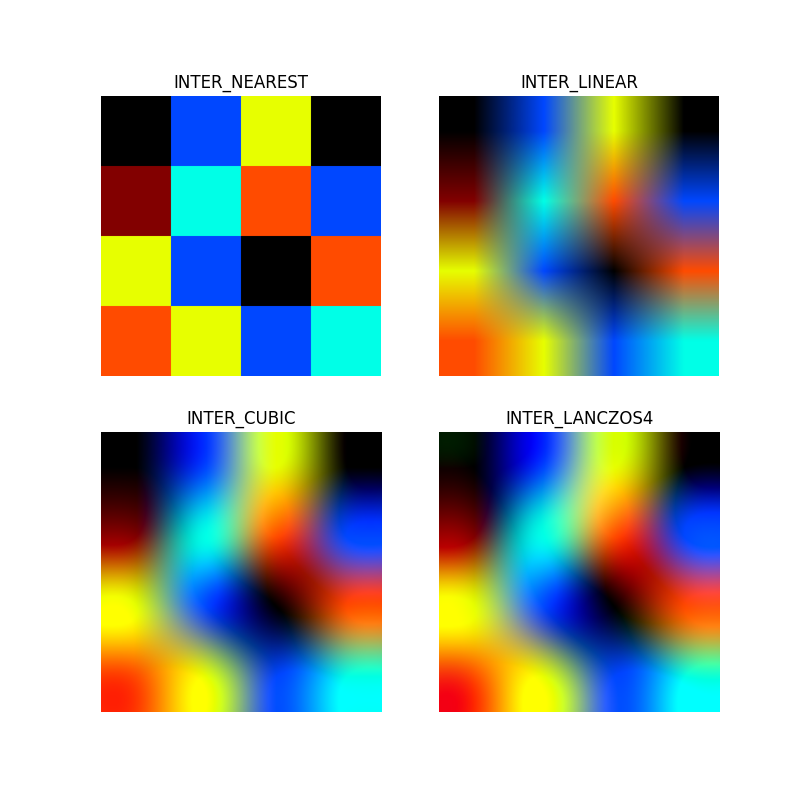
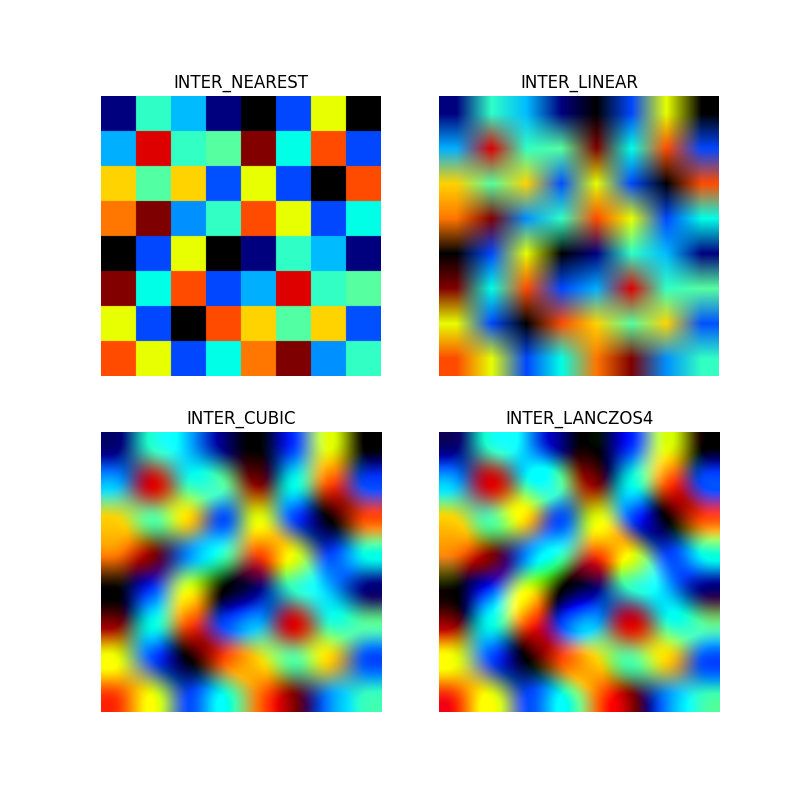
def imgshow4_3d(imga, titlea, imgb, titleb, imgc, titlec, imgd, titled):

diff --git a/reindent.py b/reindent.py
@@ -1,5 +1,6 @@
 #encoding=utf8
 import re, os, sys
+sys.path.append("../")
 try:
     from .funclib import * # 被间接使用
 except ImportError as ex: # attempted relative import with no known parent package
@@ -63,12 +64,10 @@ makebackup = True
 # A specified newline to be used in the output (set by --newline option)
 spec_newline = None
 
-
 def usage(msg=None):
     if msg is None:
         msg = __doc__
     print(msg, file=sys.stderr)
-
 
 def errprint(*args):
     sys.stderr.write(" ".join(str(arg) for arg in args))
@@ -107,7 +106,6 @@ def main():
         return
     for arg in args:
         check(arg)
-
 
 def check(file):
     if os.path.isdir(file) and not os.path.islink(file):
@@ -165,7 +163,6 @@ def check(file):
             print("unchanged.")
         return False
 
-
 def _rstrip(line, JUNK='\n \t'):
     """Return line stripped of trailing spaces, tabs, newlines.
 
@@ -178,7 +175,6 @@ def _rstrip(line, JUNK='\n \t'):
     while i > 0 and line[i - 1] in JUNK:
         i -= 1
     return line[:i]
-
 
 class Reindenter:
 
@@ -329,14 +325,12 @@ class Reindenter:
             if line:   # not endmarker
                 self.stats.append((slinecol[0], self.level))
 
-
 # Count number of leading blanks.
 def getlspace(line):
     i, n = 0, len(line)
     while i < n and line[i] == " ":
         i += 1
     return i
-
 
 if __name__ == '__main__':
     main()

diff --git a/mdrstrip.py b/mdrstrip.py
@@ -140,6 +140,7 @@ def mainfile(fpath, fname, ftype):
     warnCnEnSpace    = ftype in ("md", "php", "html", "htm",)
     warnMdTitleSpace = ftype in ("md",)
     warnIndentSpace  = ftype in ("md", "py", "php",)
+    isPyFile = ftype in ("py",)
 
     if fpath.find("\\_site\\") != -1:
         return
@@ -180,7 +181,8 @@ def mainfile(fpath, fname, ftype):
         tagregexk = "^\\s*[#]+\\s{2,}"
         prelinetag = re.findall(tagregex, preline)
         nextlinetag = re.findall(tagregex, nextline)
-        assert not re.findall(tagregexk, preline), preline
+        if not isPyFile:
+            assert not re.findall(tagregexk, preline), preline
 
         if re.findall("^\\s*[*-]+ ", line):
             idtcnt = 2
@@ -281,9 +283,9 @@ def mainfile(fpath, fname, ftype):
 
         if count > 12 or count % idtcnt == 0:
             pass # ok
-        elif warnIndentSpace:
+        elif warnIndentSpace and not isPyFile:
             openTextFile(fpath)
-            assert False, "{}:{} {}".format(fpath, index+1, line)
+            assert False, "{}:{} \"{}\"".format(fpath, index+1, line)
 
     page = "\r\n".join(lines)
     while page.find("\r\n" * 3) != -1:

diff --git a/_posts/2020-10-20-dip-image-interpolation.md b/_posts/2020-10-20-dip-image-interpolation.md
@@ -11,7 +11,7 @@ toc: true
 写了一个 Python 直观感受各种图像缩放插值算法。越高级的算法越圆润，越基础的算法马赛克效果越明显。
 
 * INTER_NEAREST  -- 最近邻插值法 "nearest"
-* INTER_LINEAR   -- 双线性插值法（默认）"linear", "bilinear", "trilinear", "triangle"
+* INTER_LINEAR   -- 双线性插值法（默认）“linear", "bilinear", "trilinear", "triangle"
 * INTER_AREA     -- 基于局部像素的重采样（resampling using pixel area relation）
 * INTER_CUBIC    -- 基于 4x4 像素邻域的 3 次插值法 "cubic", "bicubic", "tricubic"
 * INTER_LANCZOS4 -- 基于 8x8 像素邻域的 Lanczos 插值 "lanczos4"
@@ -22,6 +22,14 @@ toc: true
 {% include image.html url="/images/image-interpolation/result.png" %}
 
 {% include image.html url="/images/image-interpolation/result2.png" %}
+
+{% include image.html url="/images/image-interpolation/INTER_NEAREST.png" %}
+
+{% include image.html url="/images/image-interpolation/INTER_LINEAR.png" %}
+
+{% include image.html url="/images/image-interpolation/INTER_CUBIC.png" %}
+
+{% include image.html url="/images/image-interpolation/INTER_LANCZOS4.png" %}
 
 
 ## Python 代码
@@ -67,8 +75,44 @@ def imgshow4(imga, titlea, imgb, titleb, imgc, titlec, imgd, titled):
     plt.axis('off')
     plt.show()
 
-def imgtest(myimg, interpolation):
-    img = cv2.resize(myimg, (0, 0), fx=100, fy=100,
+# https://www.oreilly.com/library/view/python-data-science/9781491912126/ch04.html
+def imgshow4_3d(imga, titlea, imgb, titleb, imgc, titlec, imgd, titled):
+    plt.figure(num='result3d', figsize=(8,8))
+    xx, yy = np.mgrid[0:imga.shape[0], 0:imga.shape[1]]
+
+    cfg = plt.subplot(2, 2, 1, projection='3d')
+    cfg.set_title(titlea)
+    cfg.plot_surface(xx, yy, imga, rstride=1, cstride=1, cmap=plt.cm.jet, linewidth=0, antialiased=False)
+    plt.axis('off')
+
+    cfg = plt.subplot(2, 2, 2, projection='3d')
+    cfg.set_title(titleb)
+    cfg.plot_surface(xx, yy, imgb, rstride=1, cstride=1, cmap=plt.cm.jet, linewidth=0, antialiased=False)
+    plt.axis('off')
+
+    cfg = plt.subplot(2, 2, 3, projection='3d')
+    cfg.set_title(titlec)
+    cfg.plot_surface(xx, yy, imgc, rstride=1, cstride=1, cmap=plt.cm.jet, linewidth=0, antialiased=False)
+    plt.axis('off')
+
+    cfg = plt.subplot(2, 2, 4, projection='3d')
+    cfg.set_title(titled)
+    cfg.plot_surface(xx, yy, imgd, rstride=1, cstride=1, cmap=plt.cm.jet, linewidth=0, antialiased=False)
+    plt.axis('off')
+
+    plt.show()
+
+def imgshow3d(imga, titlea):
+    plt.figure(num=titlea, figsize=(8,8))
+    xx, yy = np.mgrid[0:imga.shape[0], 0:imga.shape[1]]
+    # https://matplotlib.org/mpl_toolkits/mplot3d/tutorial.html
+    ax = plt.axes(projection='3d')
+    ax.plot_surface(xx, yy, imga, rstride=1, cstride=1, cmap=plt.get_cmap('rainbow'), edgecolor='none') # 'viridis'
+    plt.title(titlea)
+    plt.show()
+
+def imgtest(myimg, interpolation, fxy=100):
+    img = cv2.resize(myimg, (0, 0), fx=fxy, fy=fxy,
                      interpolation=interpolation).astype(np.uint8)
     return img
 
@@ -86,13 +130,17 @@ e7ff00 0047ff 000000 ff4b00
 ff4b00 e7ff00 0047ff 00ffe7
 """
     imagestr = """
-00007f 2fffc7 00bcff 00007f
-00b0ff de0000 32ffc3 56ffa0
-ffd300 53ffa3 ffd300 0050ff
-ff7600 7f0000 0090ff 32ffc3
+00007f 2fffc7 00bcff 00007f 000000 0047ff e7ff00 000000
+00b0ff de0000 32ffc3 56ffa0 820000 00ffe7 ff4b00 0047ff
+ffd300 53ffa3 ffd300 0050ff e7ff00 0047ff 000000 ff4b00
+ff7600 7f0000 0090ff 32ffc3 ff4b00 e7ff00 0047ff 00ffe7
+000000 0047ff e7ff00 000000 00007f 2fffc7 00bcff 00007f
+820000 00ffe7 ff4b00 0047ff 00b0ff de0000 32ffc3 56ffa0
+e7ff00 0047ff 000000 ff4b00 ffd300 53ffa3 ffd300 0050ff
+ff4b00 e7ff00 0047ff 00ffe7 ff7600 7f0000 0090ff 32ffc3
 """
     myimage = [strcolor(color) for color in imagestr.split()]
-    myimage = np.asarray(myimage).reshape(4, 4, 3).astype(np.uint8)
+    myimage = np.asarray(myimage).reshape(8, 8, 3).astype(np.uint8)
 
     nearest  = imgtest(myimage, cv2.INTER_NEAREST)
     linear   = imgtest(myimage, cv2.INTER_LINEAR)
@@ -104,6 +152,18 @@ ff7600 7f0000 0090ff 32ffc3
         cubic, "INTER_CUBIC",
         lanczos4, "INTER_LANCZOS4",
     )
+
+    myimage = cv2.cvtColor(myimage, cv2.COLOR_BGR2GRAY)
+
+    nearest  = imgtest(myimage, cv2.INTER_NEAREST, 10)
+    linear   = imgtest(myimage, cv2.INTER_LINEAR, 10)
+    cubic    = imgtest(myimage, cv2.INTER_CUBIC, 10)
+    lanczos4 = imgtest(myimage, cv2.INTER_LANCZOS4, 10)
+
+    imgshow3d(nearest, "INTER_NEAREST")
+    imgshow3d(linear, "INTER_LINEAR")
+    imgshow3d(cubic, "INTER_CUBIC")
+    imgshow3d(lanczos4, "INTER_LANCZOS4")
 
 if __name__ == "__main__":
     main()
@@ -128,4 +188,4 @@ if __name__ == "__main__":
 
 {% include image.html url="/images/image-interpolation/20201022103740.png" %}
 
-* 算法公式 [UTORIAL: IMAGE RESCALING](https://clouard.users.greyc.fr/Pantheon/experiments/rescaling/index-en.html)
+* 算法公式 [TUTORIAL: IMAGE RESCALING](https://clouard.users.greyc.fr/Pantheon/experiments/rescaling/index-en.html)

diff --git a/_posts/2020-10-10-smart-handle.md b/_posts/2020-10-10-smart-handle.md
@@ -79,3 +79,13 @@ private:
 ```
 
 类创建成员：`SmartCriticalSection m_csection;` 成员函数就可以用了：`SmartLocker temp(m_csection);`。要注意的就是，不要 `TerminateThread` / `ExitThread` 之类的，可能造成死锁。
+
+```cpp
+    template <typename T>
+    std::string to_string(T value)
+    {
+        std::ostringstream os;
+        os << value;
+        return os.str();
+    }
+```
